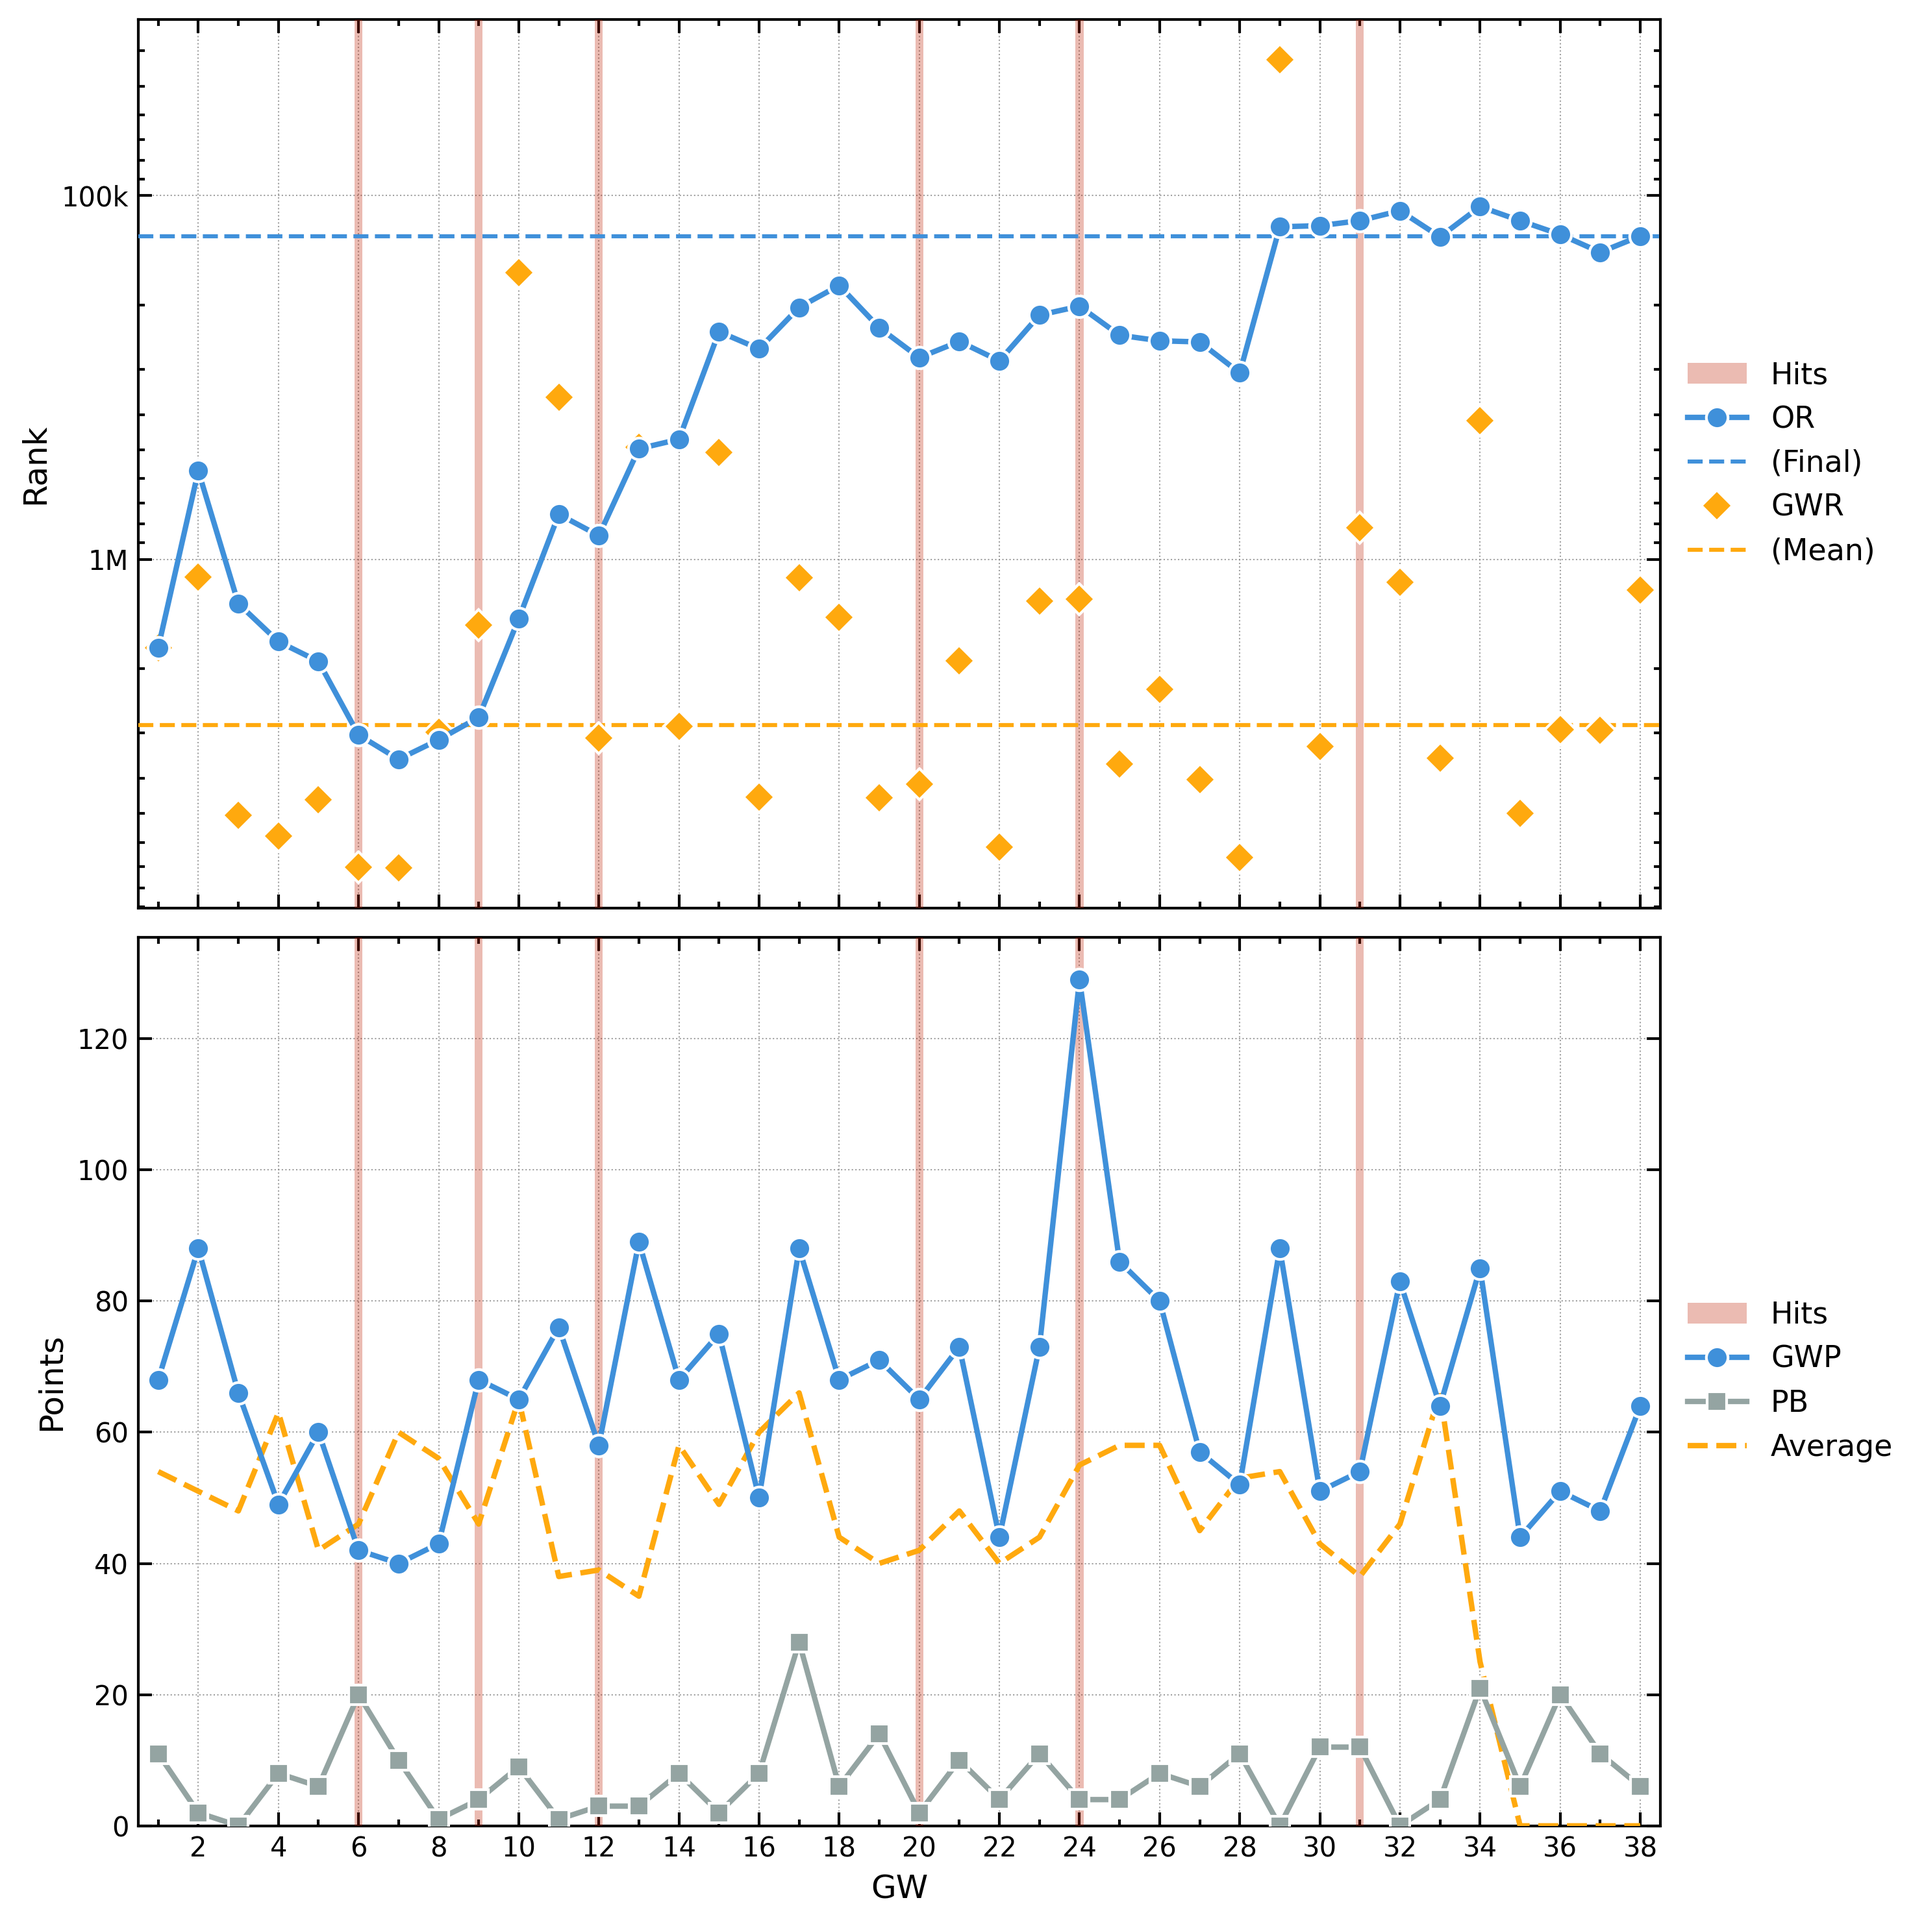
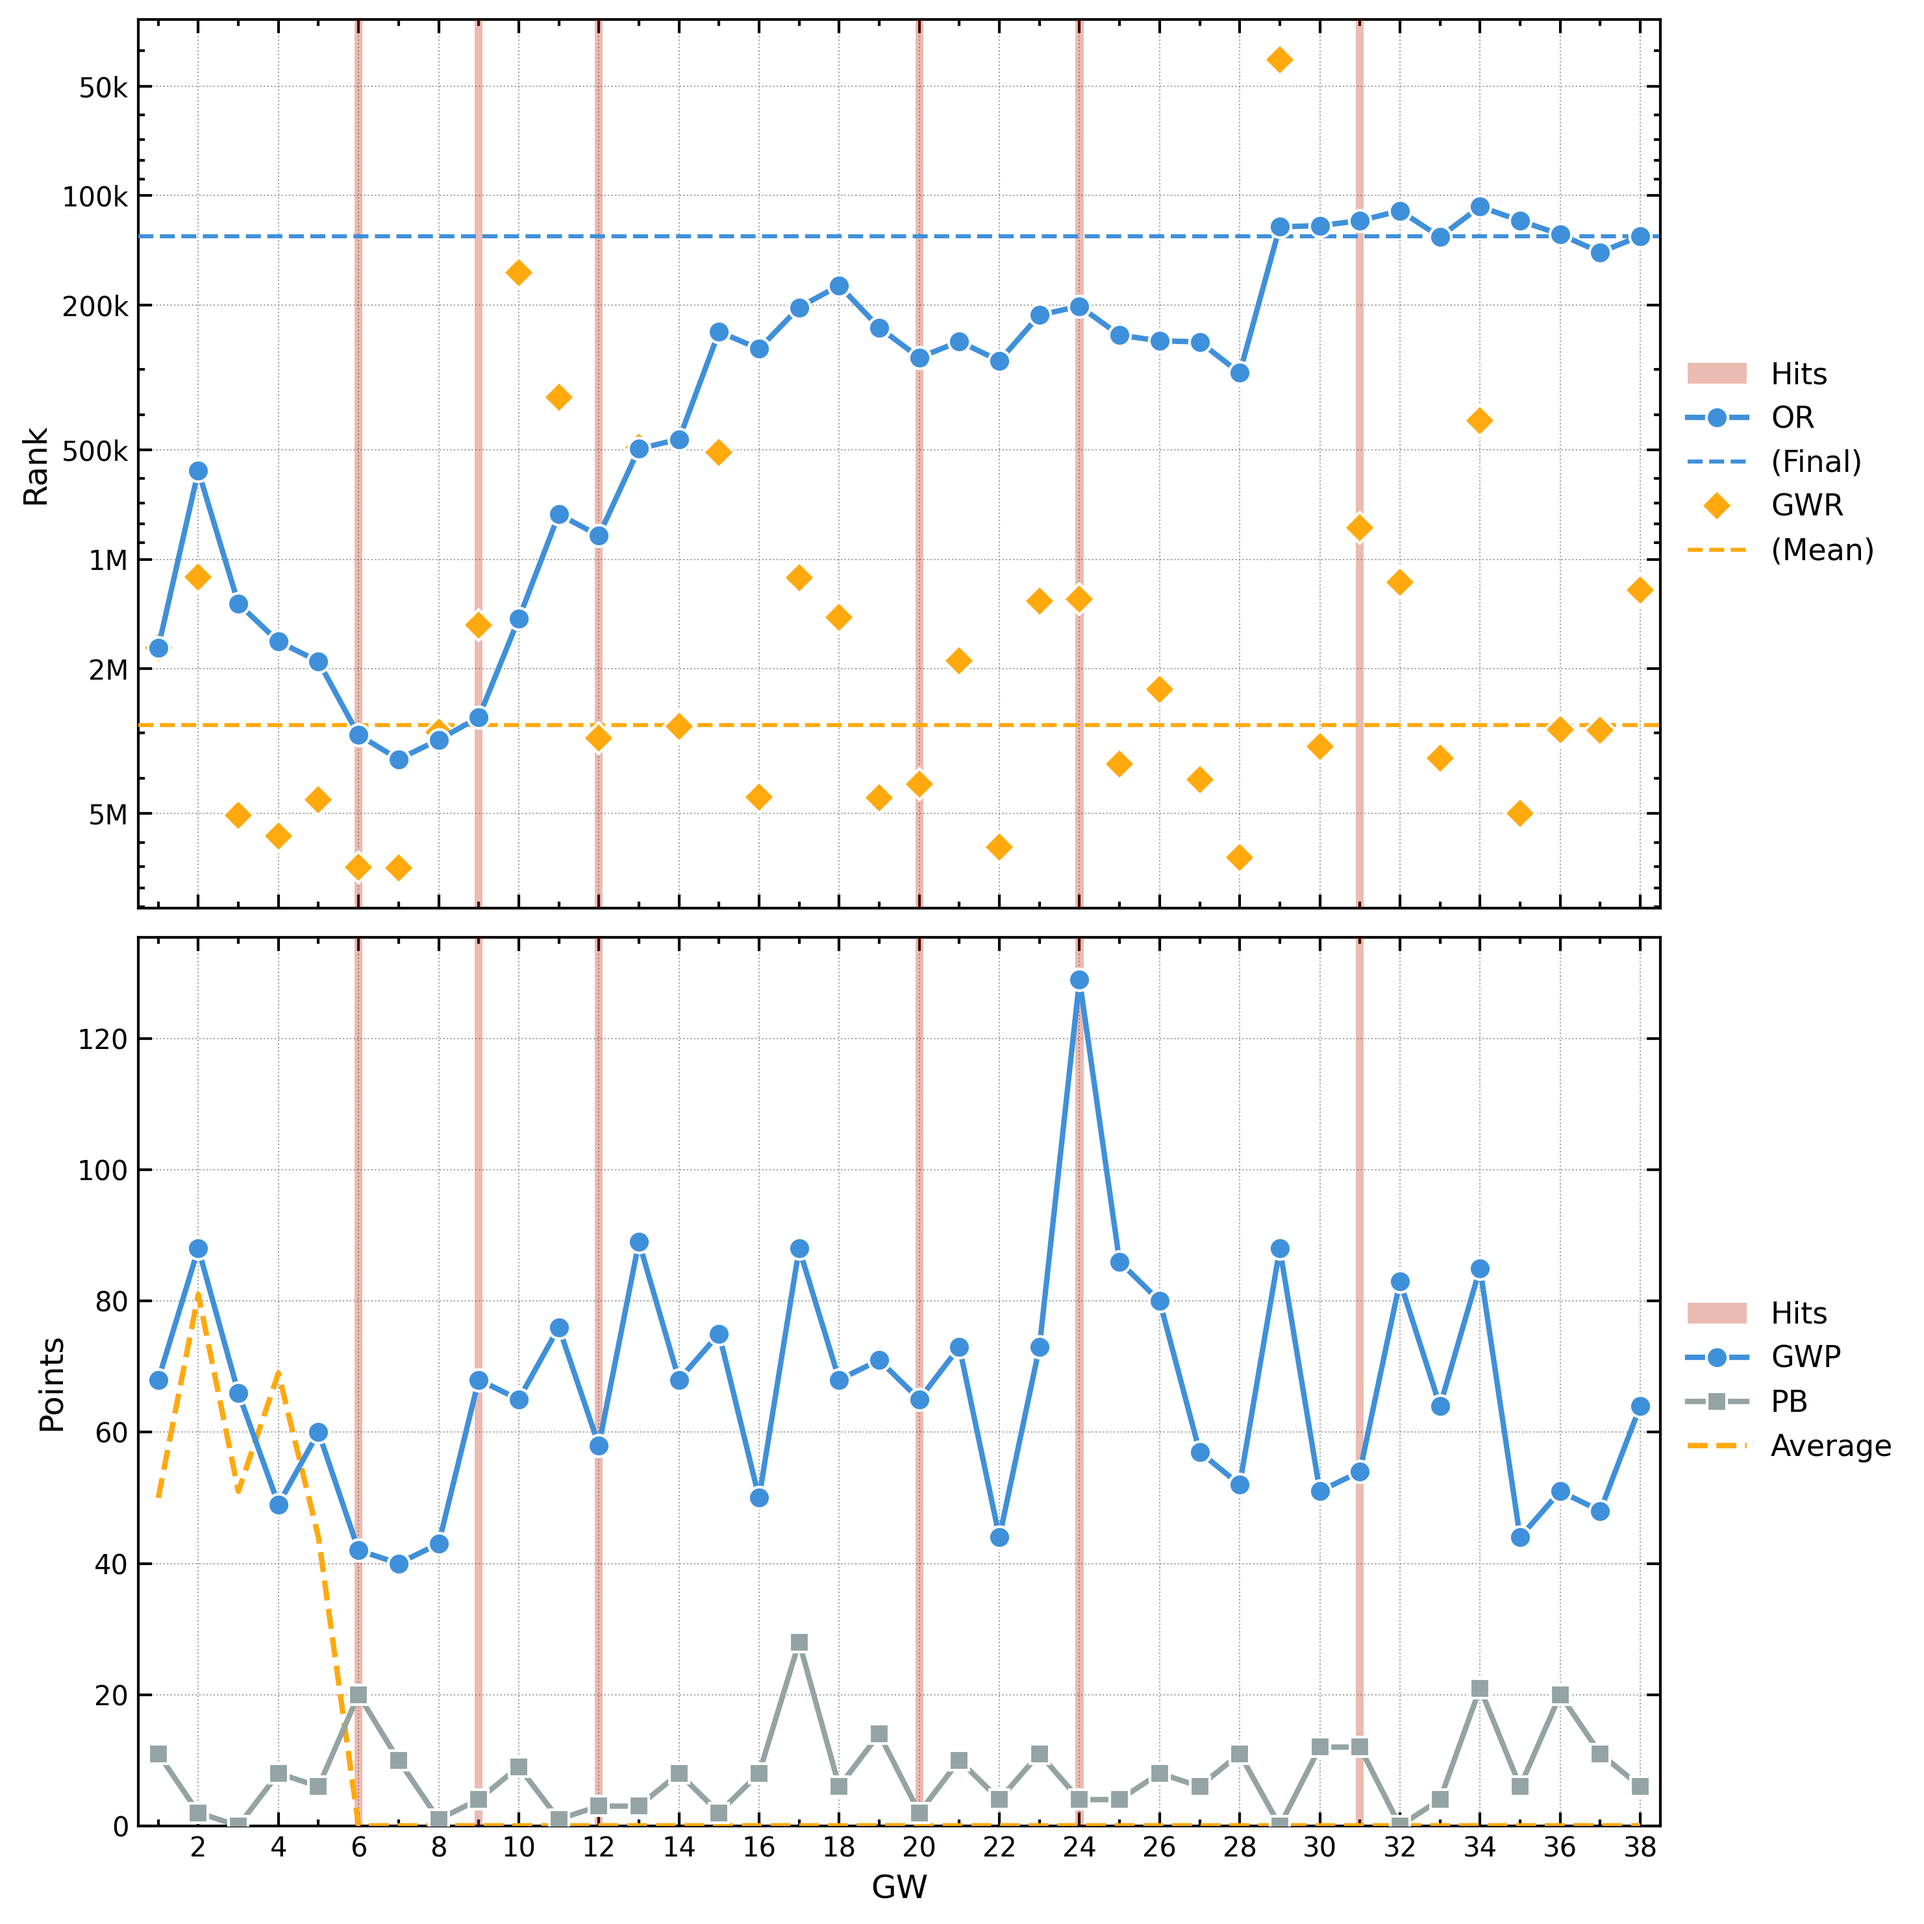
Cap rank axis at 10M and add 2x/5x decade ticks
Caps the worst-rank end of the log y-axis at 10M (tighter if data
allows) instead of letting it grow unbounded, and adds major ticks at
1x/2x/5x per decade so labels like 500k, 2M, 5M appear alongside the
existing powers of ten.

Claude-Session: https://claude.ai/code/session_01XA91YR1Gj6eRh5VAtAL1CS

diff --git a/visualize.py b/visualize.py
@@ -3,7 +3,7 @@
 import csv
 from pathlib import Path
 import matplotlib.pyplot as plt
-from matplotlib.ticker import MultipleLocator, FuncFormatter
+from matplotlib.ticker import MultipleLocator, FuncFormatter, LogLocator
 import numpy as np
 
 plt.style.use(["petroff10", Path(__file__).parent / "fplot.mplstyle"])
@@ -425,6 +425,10 @@ def plot_rank_evolution(csv_path, ax=None):
     ax.set_yscale("log")
     ax.invert_yaxis()  # Invert so better ranks (lower values) are at the top
 
+    # Cap the worst-rank end of the axis at 10M, even if actual data is worse
+    bottom, top = ax.get_ylim()
+    ax.set_ylim(min(bottom, 1e7), top)
+
     # Set x-axis limits and ticks
     ax.set_xlim(0.5, 38.5)
 
@@ -432,7 +436,8 @@ def plot_rank_evolution(csv_path, ax=None):
     ax.xaxis.set_major_locator(MultipleLocator(2))
     ax.xaxis.set_minor_locator(MultipleLocator(1))
 
-    # Y-axis: custom formatter for human-readable ranks
+    # Y-axis: ticks at 1x/2x/5x per decade (e.g. 500k, 1M, 2M, 5M, 10M)
+    ax.yaxis.set_major_locator(LogLocator(base=10, subs=(1, 2, 5)))
     ax.yaxis.set_major_formatter(FuncFormatter(format_rank))
 
     # Labels
